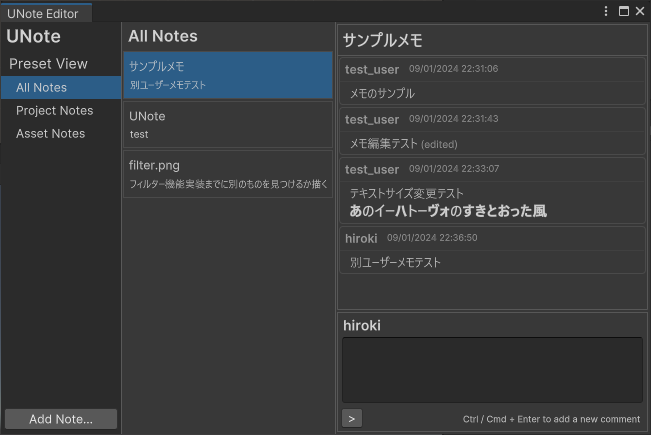
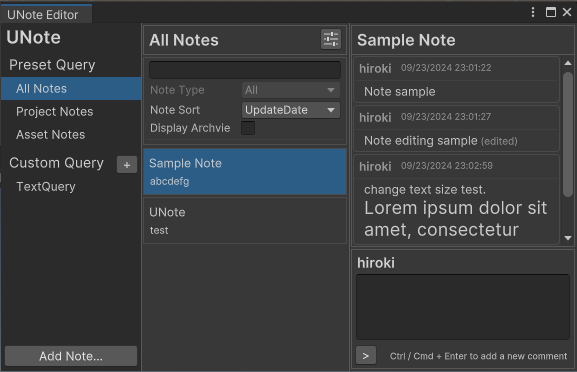
ドキュメント更新

diff --git a/README_JA.md b/README_JA.md
@@ -13,6 +13,9 @@ UNote は Unity 上でメモを作成・編集する機能を提供し、1つの
 * メモエディターからメモの追加/削除/編集を行えます
 * プロジェクト全体に関するメモ、特定のアセットに対するメモを作成できます
 * アセットメモは対象のアセットを選択した場合に Inspector からも編集できます
+* メモをお気に入り登録し、優先表示するようにできます
+* メモをアーカイブし編集や表示を制限できます
+* 検索機能によってテキスト内容でフィルタリングしたり、表示順を作成順などにソートできます
 
 追加予定の機能の概要については [TODO.md](Doc/Ja/TODO.md) を確認してください。
 

diff --git a/README.md b/README.md
@@ -12,6 +12,9 @@ UNote is a tool that provides functionality to create and edit notes in Unity, a
 * Add, delete, and edit notes from the Note Editor.
 * Create notes related to the entire project or specific assets.
 * Asset notes can be edited from the Inspector when the corresponding asset is selected.
+* You can mark notes as favorites to prioritize their display.
+* You can archive notes to limit editing and display.
+* Using the search function, you can filter notes by text content or sort them by creation date, among other options.
 
 For an overview of planned features, please refer to [TODO.md](Doc/En/TODO.md).
 
